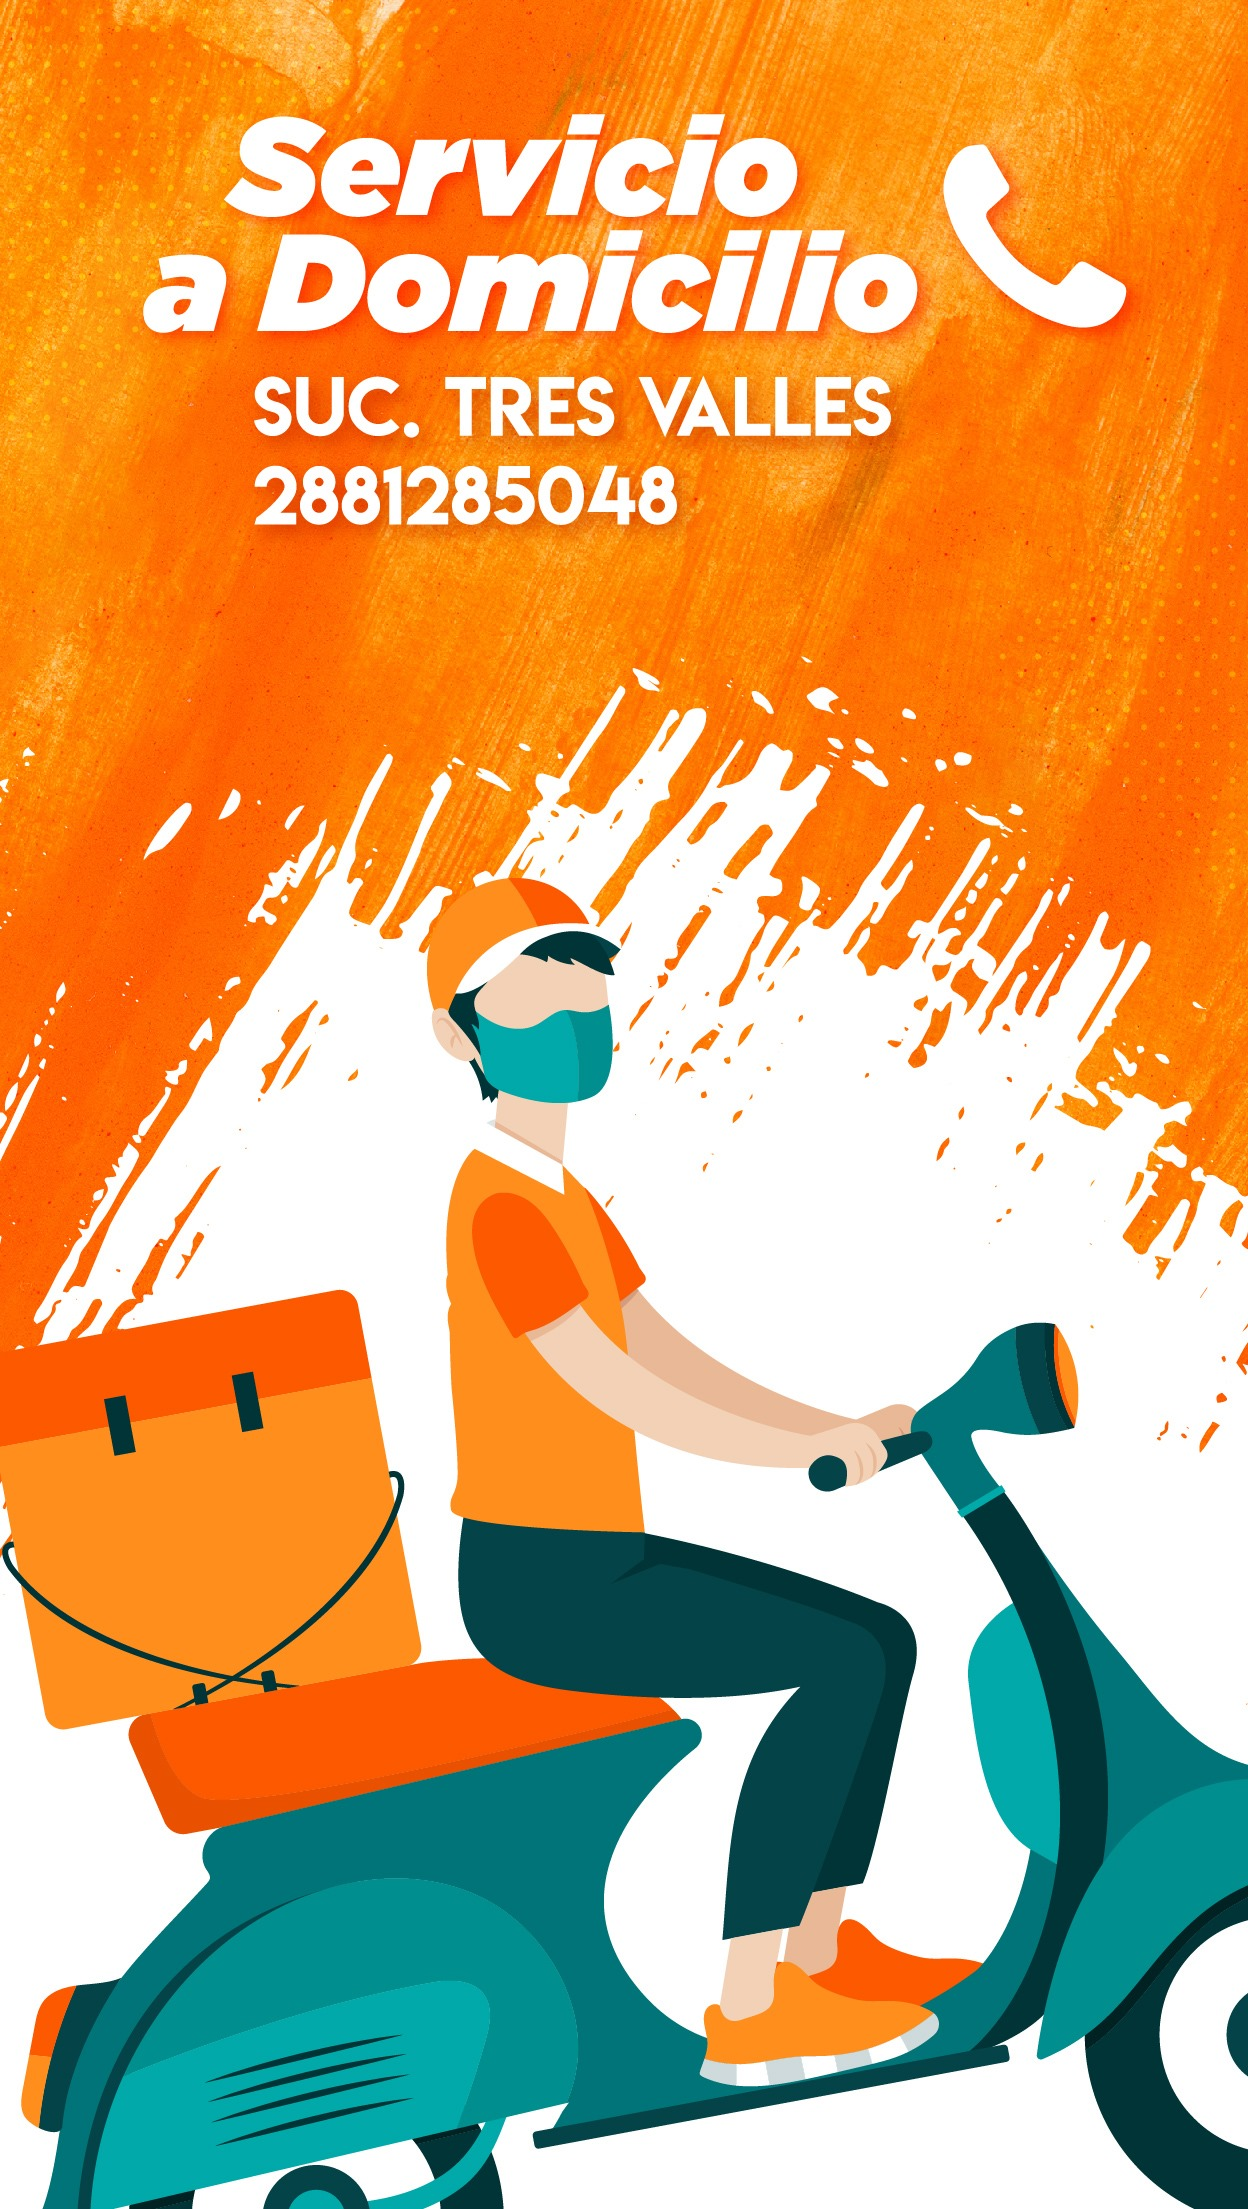
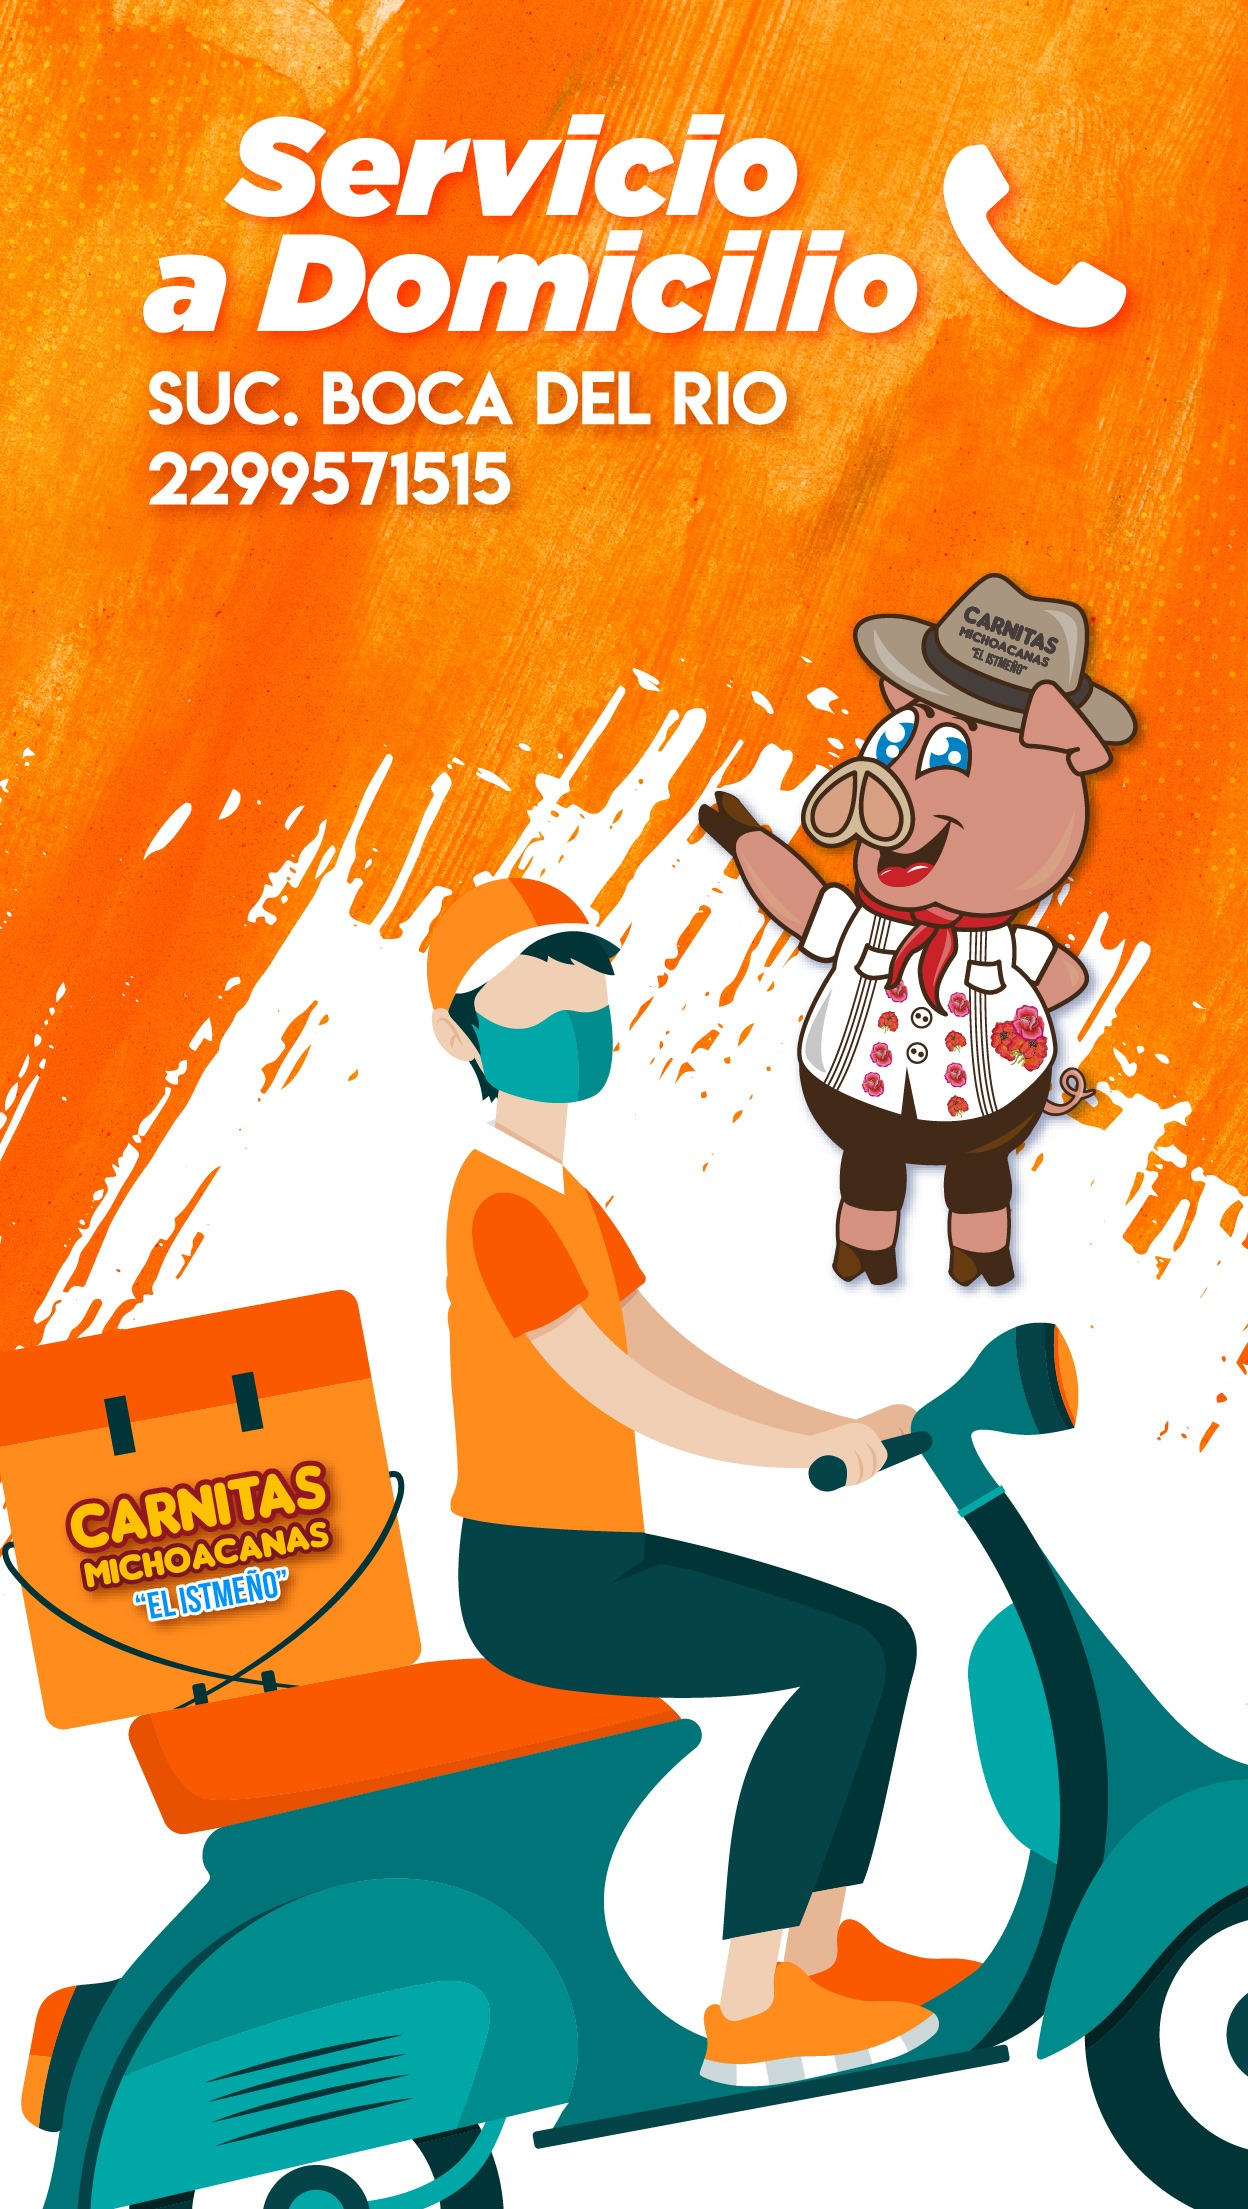
actualizacion de imagenes

Changed region(s): [[0.5625, 0.2499, 0.9375, 0.5935], [0.125, 0.1562, 0.7188, 0.2499], [0.0312, 0.656, 0.2812, 0.7497]]

diff --git a/js/menu.js b/js/menu.js
@@ -51,40 +51,44 @@ function initMap() {
             },
             pagina8: {
                 icon: iconBase + 'menu-8.jpg',
-                cel: "href='https://wa.me/522871057572'",
-                tel: "href='tel: 522871057572'",
-                position: new google.maps.LatLng(18.089305, -96.135304),
-                info: '<h3>Carnitas El Istmeño</h3><p>Av. Francisco y Madero Esq. 5 de Febrero, Colonia María Eugenia.</p>',
-                iconMap: iconBase + 'mapicon.png'
+                youtube: "zJYCm7-4bH8"
             },
             pagina9: {
                 icon: iconBase + 'menu-9.jpg',
                 cel: "href='https://wa.me/522871057572'",
-                tel: "href='tel: 529721110889'",
-                position: new google.maps.LatLng(18.082797, -96.120222),
-                info: '<h3>Carnitas El Istmeño</h3><p>Av. Libertad 472-576, Centro, 68300 San Juan Bautista Tuxtepec, Oax.</p>',
+                tel: "href='tel: 2871057572'",
+                position: new google.maps.LatLng(18.089305, -96.135304),
+                info: '<h3>Carnitas El Istmeño</h3><p>Av. Francisco y Madero Esq. 5 de Febrero, Colonia María Eugenia.</p>',
                 iconMap: iconBase + 'mapicon.png'
             },
             pagina10: {
                 icon: iconBase + 'menu-10.jpg',
-                cel: "href='https://wa.me/529721075154'",
-                tel: "href='tel: 529721075154'",
-                position: new google.maps.LatLng(20.5197462, -97.4430313),
-                info: '<h3>Carnitas El Istmeño</h3><p>HIDALGO No 506-A, Veracruz</p>',
+                cel: "href='https://wa.me/522871057572'",
+                tel: "href='tel: 9721110889'",
+                position: new google.maps.LatLng(18.082797, -96.120222),
+                info: '<h3>Carnitas El Istmeño</h3><p>Av. Libertad 472-576, Centro, 68300 San Juan Bautista Tuxtepec, Oax.</p>',
                 iconMap: iconBase + 'mapicon.png'
             },
             pagina11: {
                 icon: iconBase + 'menu-11.jpg',
-                cel: "href='https://wa.me/522299571515'",
-                tel: "href='tel: 522299571515'",
-                position: new google.maps.LatLng(19.130268, -96.122766),
-                info: '<h3>Calle 8, Venustiano Carranza, Carranza 3ra Secc, 94297 Boca del Río, Ver.</p>',
+                cel: "href='https://wa.me/529721075154'",
+                tel: "href='tel: 9721075154'",
+                position: new google.maps.LatLng(20.5197462, -97.4430313),
+                info: '<h3>Carnitas El Istmeño</h3><p>HIDALGO No 506-A, Veracruz</p>',
                 iconMap: iconBase + 'mapicon.png'
             },
             pagina12: {
                 icon: iconBase + 'menu-12.jpg',
+                cel: "href='https://wa.me/522299571515'",
+                tel: "href='tel: 2299571515'",
+                position: new google.maps.LatLng(19.130268, -96.122766),
+                info: '<h3>Calle 8, Venustiano Carranza, Carranza 3ra Secc, 94297 Boca del Río, Ver.</p>',
+                iconMap: iconBase + 'mapicon.png'
+            },
+            pagina13: {
+                icon: iconBase + 'menu-13.jpg',
                 cel: "href='https://wa.me/522881285048'",
-                tel: "href='tel: 522881285048'",
+                tel: "href='tel: 2881285048'",
                 position: new google.maps.LatLng(18.235195, -96.144031),
                 info: '<h3>Blvd. Fernando Gutiérrez Barrios #703, Tres Valles, Veracruz.</p>',
                 iconMap: iconBase + 'mapicon.png'
@@ -130,6 +134,9 @@ function initMap() {
             },
             {
                 type: 'pagina12'
+            },
+            {
+                type: 'pagina13'
             }
         ];
 
@@ -139,7 +146,7 @@ function initMap() {
             var infoTelFooter = "";
             var c = "";
 
-            if (index >= 8) {
+            if (index >= 9) {
                 var tienda = '"' + feature.type + '"';
                 infoTelFooter = "<footer class='footapp'><section class='contfooter'><div class='iconappfoot'><a " + menus[feature.type].cel + "><i class='fa fa-whatsapp fa-6' style='color: black;'></i></a></div><div class='iconappfoot'><a " + menus[feature.type].tel + "><i class='fa fa-phone fa-6' style='color: black;'></i></a></div><div class='iconappfoot'><a onclick='cargaMap(" + tienda + ")'><i class='fa fa-map-marker fa-6' style='color: black;'></i></a></div><div class='iconappfoot' id='instalarApp' onclick='instalar();'><i class='fa fa-download fa-1' aria-hidden='true' style='color: white;'></i><p style='color: white;'>APP</p></div></section></footer>";
 
@@ -148,6 +155,11 @@ function initMap() {
             } else if (index >= 1 && index <= 7) {
                 var tienda = '"' + feature.type + '"';
                 youtube = "<footer class='footapp'><section class='contfooter'><div class='iconappfoot'><a onclick='cargaYoutube(" + tienda + ")'><i class='fa fa-youtube fa-6' style='color: black;'></i></a></div><div class='iconappfoot' id='instalarApp' onclick='instalar();'><i class='fa fa-download fa-1' aria-hidden='true' style='color: white;'></i><p style='color: white;'>APP</p></div></section></footer>";
+                var page = "<div class='swiper-slide'>" + youtube + "<img src='" + menus[feature.type].icon + "' class='slideDimension'></div>";
+                $('#menuSwiper').append(page);
+            } else if (index == 8) {
+                var tienda = '"' + feature.type + '"';
+                youtube = "<footer class='footapp'><section class='contfooter'><div class='iconappfoot' id='instalarApp' onclick='instalar();'><i class='fa fa-download fa-1' aria-hidden='true' style='color: white;'></i><p style='color: white;'>APP</p></div></section></footer>";
                 var page = "<div class='swiper-slide'>" + youtube + "<img src='" + menus[feature.type].icon + "' class='slideDimension'></div>";
                 $('#menuSwiper').append(page);
             }

diff --git a/sw.js b/sw.js
@@ -22,6 +22,7 @@ const APP_SHELL  = [
     'img/menu-10.jpg',
     'img/menu-11.jpg',
     'img/menu-12.jpg',
+    'img/menu-13.jpg',
     'img/icons/icon-128x128.png',
     'img/icons/icon-144x144.png',
     'img/icons/icon-152x152.png',
